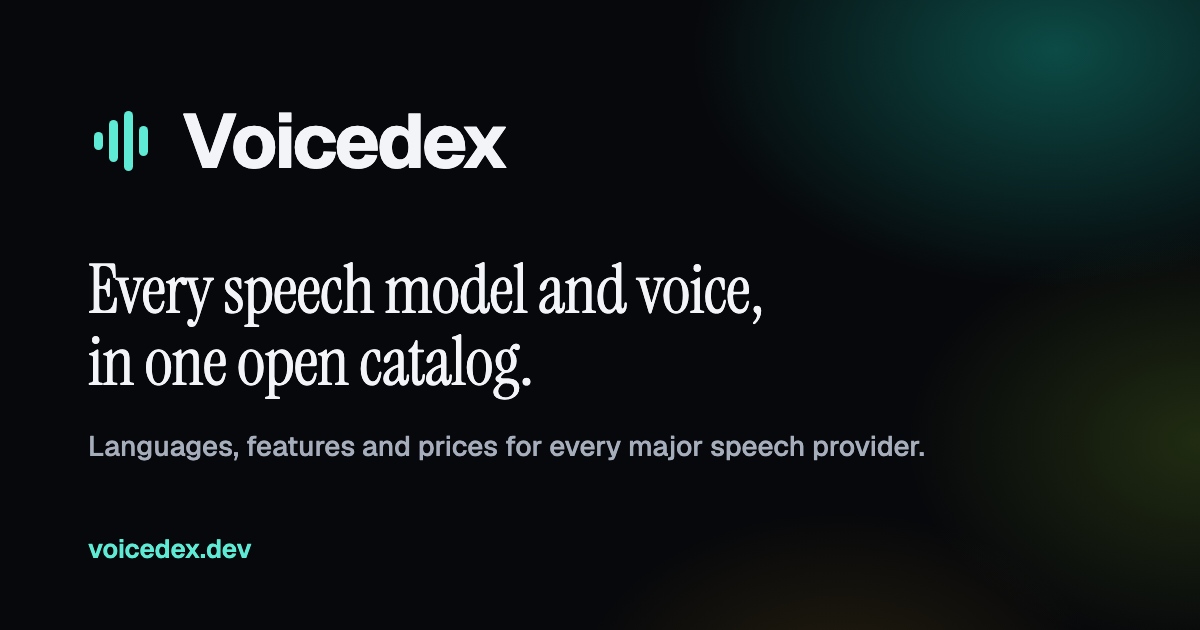
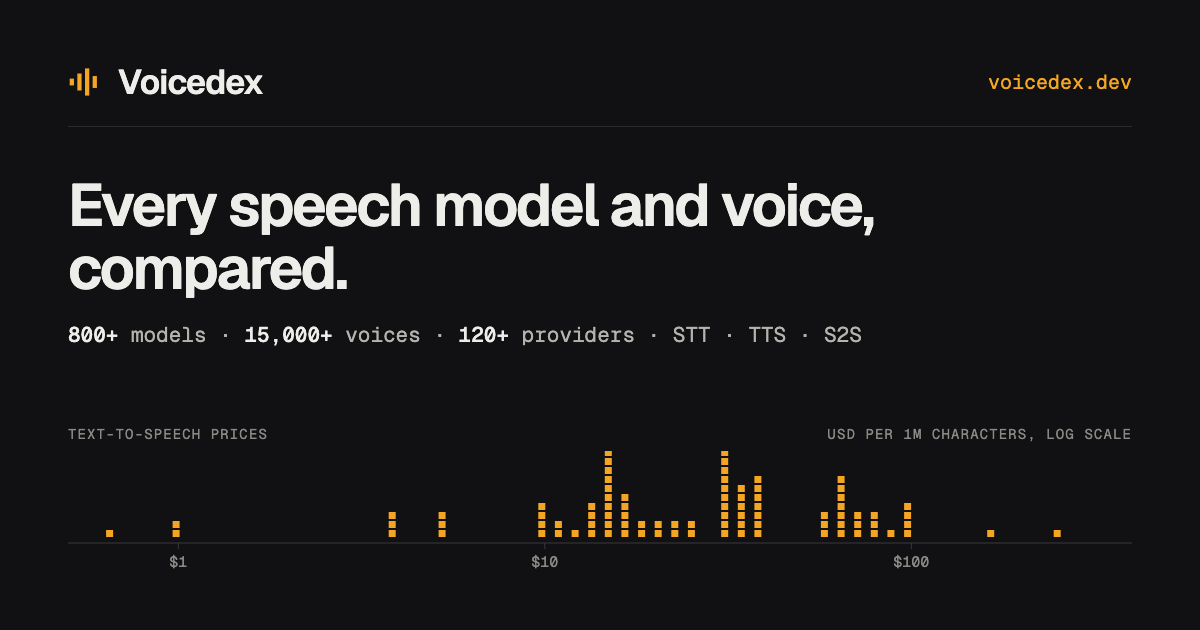
Share image in the Datasheet style (Geist, amber, real TTS price spectrum) + scripts/make_og_image.py
The old og.png predated the design system (teal glow, serif headline).

diff --git a/scripts/make_og_image.py b/scripts/make_og_image.py
@@ -1,0 +1,87 @@
+"""Render the share image (voicedex/web/static/og.png, 1200x630) in the site's "Datasheet" style.
+
+The price strip is drawn from the live catalog's text-to-speech prices, so re-run this after big
+catalog changes. Needs Google Chrome (headless) and network access for the Geist web fonts.
+
+    uv run python scripts/make_og_image.py                      # writes voicedex/web/static/og.png
+    uv run python scripts/make_og_image.py --size 1280x640 --out /tmp/og-github.png   # GitHub social preview
+"""
+
+from __future__ import annotations
+
+import argparse
+import math
+import subprocess
+import tempfile
+from pathlib import Path
+
+from voicedex.catalog.store import Catalog
+from voicedex.config import settings
+from voicedex.web import views
+
+CHROME = "/Applications/Google Chrome.app/Contents/MacOS/Google Chrome"
+ROOT = Path(__file__).resolve().parent.parent
+
+
+def tts_prices(catalog: Catalog) -> list[float]:
+    return sorted(n[0] for r in views.active_models(catalog)
+                  if r.model.type == "tts" and (n := views.normalized_price(r.model)) and n[0] > 0)
+
+
+def page(prices: list[float], W: int, H: int) -> str:
+    pad = round(W * 0.056)
+    lo, hi = math.log10(0.5), math.log10(400)
+    width, ncol, sq, gap, base = W - 2 * pad, 64, 7, 2, 92
+    colw = width / ncol
+    cols: dict[int, int] = {}
+    for p in prices:
+        i = max(0, min(ncol - 1, int((math.log10(p) - lo) / (hi - lo) * ncol)))
+        cols[i] = cols.get(i, 0) + 1
+    rects = "".join(
+        f'<rect x="{colw * (i + .5) - sq / 2:.1f}" y="{base - 6 - (k + 1) * (sq + gap) + gap:.1f}" '
+        f'width="{sq}" height="{sq}" fill="#f5a524"/>' for i, n in cols.items() for k in range(n))
+    ticks = "".join(
+        f'<line x1="{x:.1f}" x2="{x:.1f}" y1="{base}" y2="{base + 6}" stroke="#3a3a3c"/>'
+        f'<text x="{x:.1f}" y="{base + 24}" text-anchor="middle">${v}</text>'
+        for v in (1, 10, 100) for x in [(math.log10(v) - lo) / (hi - lo) * width])
+    svg = (f'<svg width="{width}" height="{base + 30}" font-family="Geist Mono" font-size="15" fill="#8a8a84">'
+           f'{rects}<line x1="0" x2="{width}" y1="{base}" y2="{base}" stroke="#3a3a3c"/>{ticks}</svg>')
+    return f"""<!doctype html><html><head><meta charset="utf-8">
+<link href="https://fonts.googleapis.com/css2?family=Geist:wght@400;500;600&family=Geist+Mono:wght@400;500&display=block" rel="stylesheet">
+<style>
+*{{margin:0;padding:0;box-sizing:border-box}}
+html,body{{width:{W}px;height:{H}px;background:#111113;color:#ededea;font-family:Geist,sans-serif;overflow:hidden}}
+.wrap{{position:absolute;inset:0;padding:{pad - 8}px {pad}px {pad - 16}px;display:flex;flex-direction:column}}
+.top{{display:flex;align-items:center;justify-content:space-between;padding-bottom:22px;border-bottom:1px solid #2a2a2d}}
+.brand{{display:flex;align-items:center;gap:16px;font-weight:600;font-size:34px;letter-spacing:-.02em}}
+.url{{font-family:'Geist Mono';font-size:20px;color:#f5a524}}
+h1{{margin-top:{int(H * .075)}px;font-weight:600;font-size:{int(H * .095)}px;line-height:1.06;letter-spacing:-.035em}}
+.facts{{margin-top:22px;font-family:'Geist Mono';font-size:21px;color:#b4b4ae}}
+.facts b{{color:#ededea;font-weight:500}}
+.spec{{margin-top:auto}}
+.label{{font-family:'Geist Mono';font-size:14px;letter-spacing:.08em;color:#8a8a84;margin-bottom:8px;display:flex;justify-content:space-between}}
+</style></head><body><div class="wrap">
+<div class="top"><div class="brand"><svg width="34" height="34" viewBox="0 0 20 20"><g fill="#f5a524"><rect x="1" y="8" width="2.5" height="4"/><rect x="5.5" y="5" width="2.5" height="10"/><rect x="10" y="2" width="2.5" height="16"/><rect x="14.5" y="6.5" width="2.5" height="7"/></g></svg>Voicedex</div><div class="url">voicedex.dev</div></div>
+<h1>Every speech model and voice,<br>compared.</h1>
+<p class="facts"><b>800+</b> models · <b>15,000+</b> voices · <b>120+</b> providers · STT · TTS · S2S</p>
+<div class="spec"><div class="label"><span>TEXT-TO-SPEECH PRICES</span><span>USD PER 1M CHARACTERS, LOG SCALE</span></div>{svg}</div>
+</div></body></html>"""
+
+
+def main() -> None:
+    ap = argparse.ArgumentParser()
+    ap.add_argument("--size", default="1200x630")
+    ap.add_argument("--out", default=str(ROOT / "voicedex/web/static/og.png"))
+    args = ap.parse_args()
+    W, H = (int(x) for x in args.size.split("x"))
+    html = page(tts_prices(Catalog.load(settings.data_path)), W, H)
+    with tempfile.NamedTemporaryFile("w", suffix=".html", delete=False) as f:
+        f.write(html)
+    subprocess.run([CHROME, "--headless=new", "--disable-gpu", "--hide-scrollbars", "--force-device-scale-factor=1",
+                    "--virtual-time-budget=6000", f"--window-size={W},{H}", f"--screenshot={args.out}",
+                    f"file://{f.name}"], check=True, capture_output=True)
+    print(f"wrote {args.out} ({W}x{H})")
+
+
+if __name__ == "__main__":
+    main()
